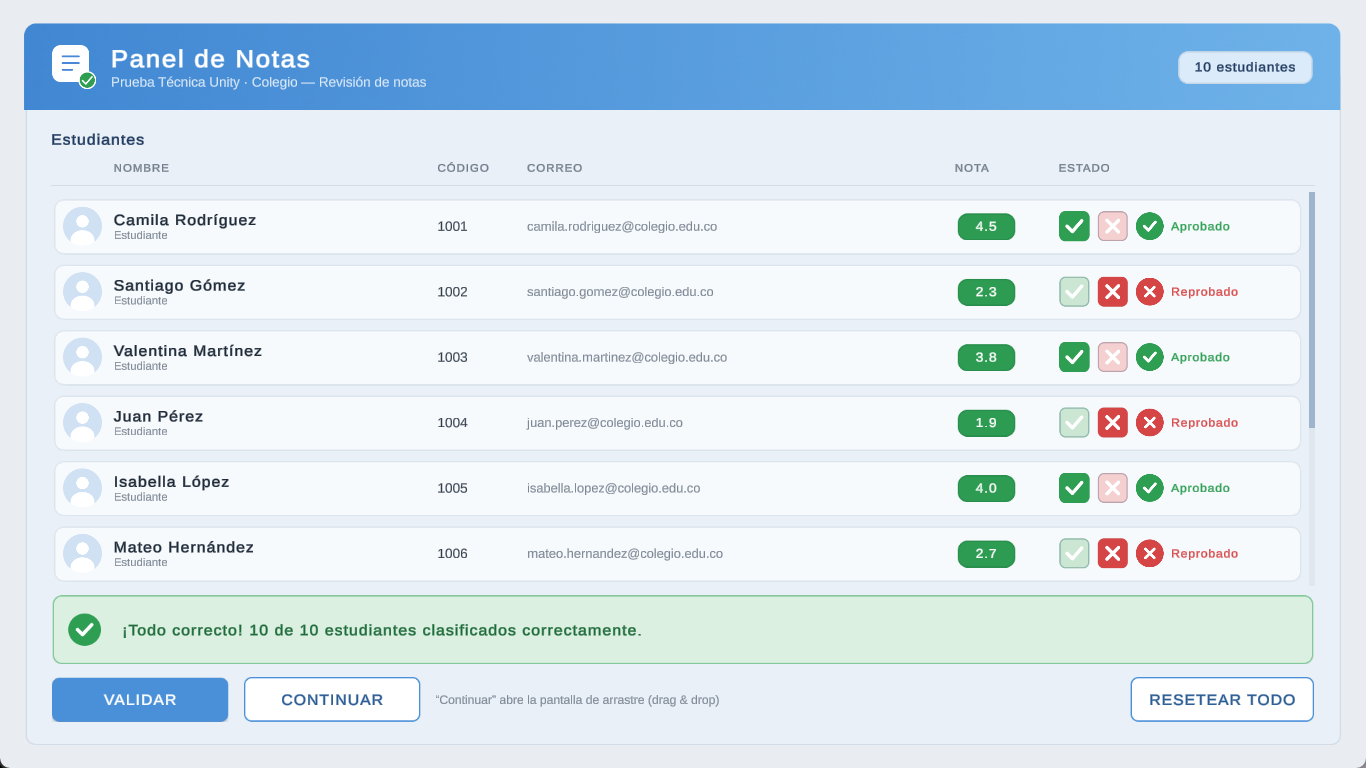
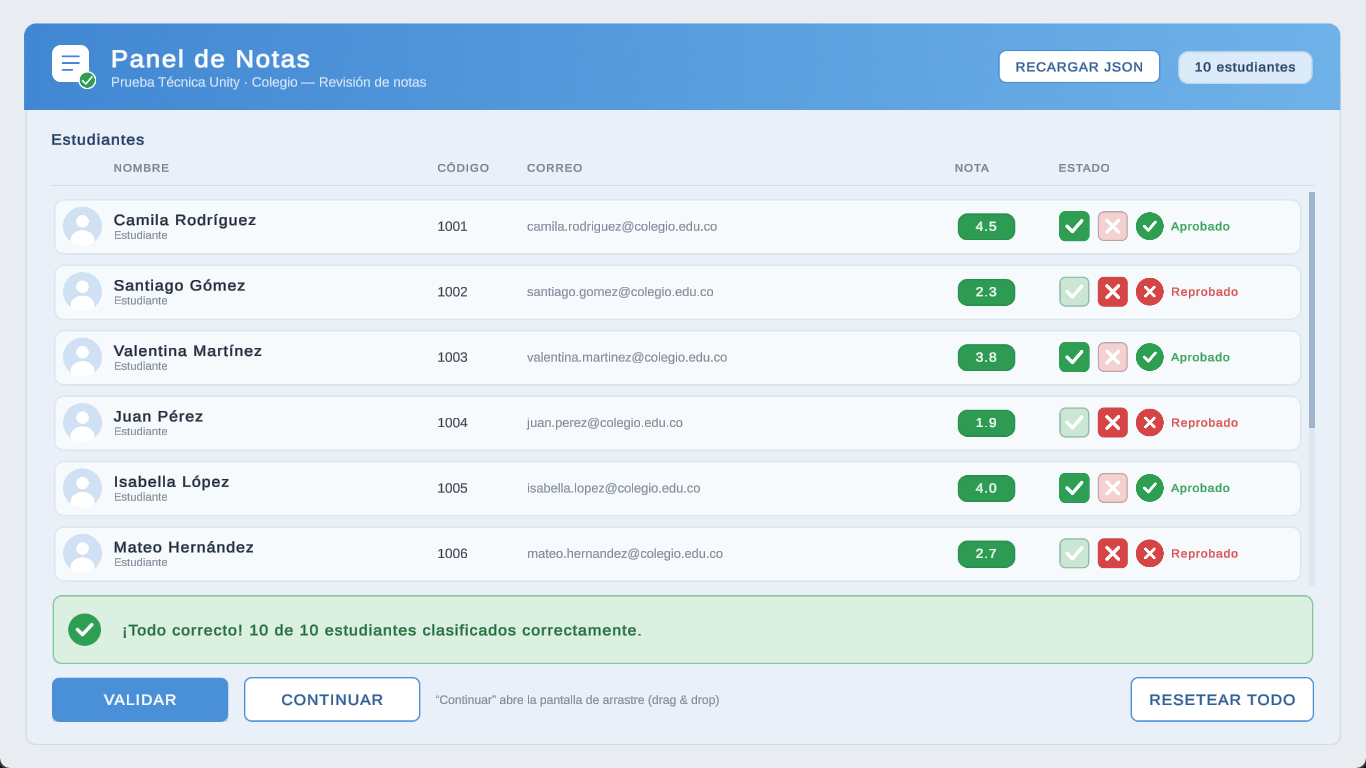
Add => JSON reload button

Changed region(s): [[0.7072, 0.0625, 0.8609, 0.125]]

diff --git a/Assets/Scripts/UI/GradesPanelController.cs b/Assets/Scripts/UI/GradesPanelController.cs
@@ -20,6 +20,7 @@ namespace GradeReview.UI
         [SerializeField] private TMP_Text studentCountText;
         [SerializeField] private Button validateButton;
         [SerializeField] private Button resetButton;
+        [SerializeField] private Button reloadButton;
         [SerializeField] private ResultBannerView resultBanner;
 
         private readonly List<StudentRowView> rows = new List<StudentRowView>();
@@ -27,18 +28,23 @@ namespace GradeReview.UI
         /// <summary>Raised when the teacher asks to clear the classifications of every screen.</summary>
         public event Action ResetAllRequested;
 
+        /// <summary>Raised when the teacher asks to read estudiantes.json again.</summary>
+        public event Action ReloadRequested;
+
         public IReadOnlyList<StudentRowView> Rows => rows;
 
         private void Awake()
         {
             validateButton.onClick.AddListener(Validate);
             resetButton.onClick.AddListener(RequestResetAll);
+            reloadButton.onClick.AddListener(RequestReload);
         }
 
         private void OnDestroy()
         {
             validateButton.onClick.RemoveListener(Validate);
             resetButton.onClick.RemoveListener(RequestResetAll);
+            reloadButton.onClick.RemoveListener(RequestReload);
         }
 
         public void Build(IReadOnlyList<StudentData> students)
@@ -80,6 +86,9 @@ namespace GradeReview.UI
 
         public void ShowLoadError(string message) => resultBanner.ShowError(message);
 
+        public void ShowReloadSuccess(int studentCount) =>
+            resultBanner.ShowSuccess(studentCount == 1 ? "Datos recargados: 1 estudiante." : $"Datos recargados: {studentCount} estudiantes.");
+
         /// <summary>Leaves every row unclassified, without validation feedback.</summary>
         public void ClearClassifications()
         {
@@ -97,6 +106,8 @@ namespace GradeReview.UI
         }
 
         private void RequestResetAll() => ResetAllRequested?.Invoke();
+
+        private void RequestReload() => ReloadRequested?.Invoke();
 
         // Only offered once every student has been classified.
         private void UpdateResetButton()

diff --git a/Assets/Scripts/UI/AppController.cs b/Assets/Scripts/UI/AppController.cs
@@ -8,7 +8,7 @@ using UnityEngine.UI;
 namespace GradeReview.UI
 {
     /// <summary>
-    /// Scene entry point: loads the students once, hands them to the panels and coordinates navigation and the global reset.
+    /// Scene entry point: loads the students, hands them to the panels and coordinates navigation, reload and the global reset.
     /// </summary>
     public class AppController : MonoBehaviour
     {
@@ -25,6 +25,7 @@ namespace GradeReview.UI
             continueButton.onClick.AddListener(ShowDragDrop);
             backButton.onClick.AddListener(ShowGrades);
             gradesPanel.ResetAllRequested += ResetAll;
+            gradesPanel.ReloadRequested += ReloadStudents;
             dragDropPanel.ResetAllRequested += ResetAll;
         }
 
@@ -33,16 +34,28 @@ namespace GradeReview.UI
             continueButton.onClick.RemoveListener(ShowDragDrop);
             backButton.onClick.RemoveListener(ShowGrades);
             gradesPanel.ResetAllRequested -= ResetAll;
+            gradesPanel.ReloadRequested -= ReloadStudents;
             dragDropPanel.ResetAllRequested -= ResetAll;
         }
 
         private void Start()
         {
+            LoadStudents(announceSuccess: false);
+            ShowGrades();
+        }
+
+        private void ReloadStudents() => LoadStudents(announceSuccess: true);
+
+        private void LoadStudents(bool announceSuccess)
+        {
             // On failure the repository logs the cause and returns an empty list; the app keeps running.
             bool loaded = new StudentRepository().TryLoad(out students, out string loadError);
             gradesPanel.Build(students);
+            // The drag & drop board is rebuilt from the new data the next time it opens.
+            isDragDropBuilt = false;
+
             if (!loaded) gradesPanel.ShowLoadError(loadError);
-            ShowGrades();
+            else if (announceSuccess) gradesPanel.ShowReloadSuccess(students.Count);
         }
 
         private void ShowDragDrop()

diff --git a/README.md b/README.md
@@ -10,6 +10,7 @@ Aplicación para que un profesor revise y clasifique las notas de sus estudiante
 - **VALIDAR** compara cada clasificación con la nota real e indica aciertos y errores.
 - **CONTINUAR** abre una segunda pantalla donde los mismos estudiantes se clasifican arrastrando tarjetas.
 - **VERIFICAR CLASIFICACIÓN** valida el resultado del drag & drop con las mismas reglas.
+- **RECARGAR JSON** vuelve a leer el archivo en tiempo de ejecución, sin reiniciar la aplicación.
 
 ## Versión de Unity
 
@@ -64,7 +65,7 @@ PruebaTecnica_CloudLabs.exe -screen-fullscreen 0 -screen-width 1366 -screen-heig
 
 - No hay estudiantes hardcodeados en scripts, escena, prefabs ni Inspector.
 - Toda la interfaz se construye a partir del JSON, así que se adapta a cualquier cantidad de estudiantes.
-- Para cambiar los datos basta con editar el JSON y **reiniciar la aplicación**. La recarga en caliente era un plus opcional y no se implementó.
+- Para cambiar los datos basta con editar el JSON y pulsar **RECARGAR JSON**, sin cerrar la aplicación. En el ejecutable se edita el archivo dentro de `PruebaTecnica_CloudLabs_Data/StreamingAssets/`.
 
 **Regla de aprobación:** `notaFinal >= 3.0` → aprobado. Está centralizada en un único lugar, `StudentData.IsApproved`.
 
@@ -89,7 +90,7 @@ Assets/Scripts
 - `ValidationResult` / `ClassificationOutcome`: resultado global y por estudiante.
 
 **UI**
-- `AppController`: punto de entrada. Carga los datos una vez, coordina la navegación y RESETEAR TODO.
+- `AppController`: punto de entrada. Carga y recarga los datos, y coordina la navegación y RESETEAR TODO.
 - `GradesPanelController` / `StudentRowView`: tabla de notas y cada fila.
 - `ResultBannerView`: banner de éxito o error, compartido por ambas pantallas.
 
@@ -116,10 +117,16 @@ Las vistas no leen datos por su cuenta ni validan: reciben `StudentData` mediant
 - Tras validar, la nota de cada fila se colorea. **Verde indica que la clasificación del profesor es correcta y rojo que es incorrecta**; no indica directamente si el estudiante aprobó. Las filas sin clasificar quedan neutras.
 - Cambiar una clasificación después de validar limpia el feedback obsoleto.
 - **RESETEAR TODO** aparece cuando todos los estudiantes están clasificados y limpia ambas pantallas.
+- **RECARGAR JSON** (en el encabezado) vuelve a leer `estudiantes.json`:
+  - reconstruye la tabla y actualiza el contador;
+  - informa el resultado en el banner, por ejemplo "Datos recargados: 10 estudiantes." o el error de carga;
+  - la pantalla de drag & drop se reconstruye con los nuevos datos la próxima vez que se abre.
+
+  Como los estudiantes pueden haber cambiado, la recarga descarta las clasificaciones anteriores de ambas pantallas.
 
 ## Drag & Drop
 
-- **CONTINUAR** abre la pantalla usando **las mismas instancias de `StudentData`**; el JSON no se vuelve a leer.
+- **CONTINUAR** abre la pantalla usando **las mismas instancias de `StudentData`** que la tabla; el JSON no se vuelve a leer.
 - Cada estudiante es una tarjeta arrastrable. Hay tres zonas: **Sin clasificar**, **Aprobado** y **Reprobado**. Una tarjeta puede moverse entre cualquiera de ellas, incluso de vuelta a Sin clasificar.
 - Si se suelta fuera de una zona válida, la tarjeta vuelve a su posición de origen.
 - Todas las zonas tienen scroll interno, así que ninguna tarjeta queda inaccesible aunque todos los estudiantes estén en la misma zona.
@@ -139,7 +146,7 @@ La carga del JSON contempla:
 - nota ausente;
 - notas fuera del rango 0.0–5.0.
 
-Los estudiantes sin nota válida se descartan con un aviso en el log. Si no se puede cargar ningún estudiante, la aplicación **no se cierra**: muestra el motivo en el banner, por ejemplo "No se encontró el archivo estudiantes.json.".
+Los estudiantes sin nota válida se descartan con un aviso en el log. Si no se puede cargar ningún estudiante, al iniciar o al recargar, la aplicación **no se cierra**: muestra el motivo en el banner, por ejemplo "No se encontró el archivo estudiantes.json.". Tras corregir el archivo basta con pulsar RECARGAR JSON.
 
 ## UI y assets
 
@@ -158,6 +165,7 @@ Los estudiantes sin nota válida se descartan con un aviso en el log. Si no se p
 **Pantalla de notas**
 - Clic en la casilla ✓ (Aprobado) o ✗ (Reprobado); un segundo clic la desmarca.
 - **VALIDAR**, **CONTINUAR**, **RESETEAR TODO**.
+- **RECARGAR JSON** para volver a leer los datos.
 - Rueda del ratón o scrollbar para recorrer la lista.
 
 **Drag & Drop**
@@ -167,7 +175,6 @@ Los estudiantes sin nota válida se descartan con un aviso en el log. Si no se p
 
 ## Limitaciones conocidas
 
-- Los cambios en `estudiantes.json` requieren reiniciar la aplicación.
 - Las tarjetas capturan el gesto de arrastre, así que el scroll se hace con la rueda, la scrollbar o un espacio libre de la lista.
 - `JsonUtility` no distingue `"notaFinal": null` de `0`. Una nota *ausente* sí se detecta y se descarta.
 
@@ -179,7 +186,7 @@ Los estudiantes sin nota válida se descartan con un aviso en el log. Si no se p
 
 **Drag & Drop — 1920×1080** (clasificación verificada)
 
-![Drag and Drop 1920x1080](Docs/Screenshots/dragdrop_1920x1080.png)
+![Drag and Drop 1920x1080](Docs/Screenshots/drag%26drop_1920x1080.png)
 
 **Pantalla de notas — 1366×768** (todo correcto)
 
@@ -187,4 +194,8 @@ Los estudiantes sin nota válida se descartan con un aviso en el log. Si no se p
 
 **Drag & Drop — 1366×768** (clasificación en curso)
 
-![Drag and Drop 1366x768](Docs/Screenshots/dragdrop_1366x768.png)
+![Drag and Drop 1366x768](Docs/Screenshots/drag%26drop_1366x768.png)
+
+**Recargar JSON — 1366×768** (archivo editado con la aplicación abierta: 6 estudiantes nuevos)
+
+![Recargar JSON 1366x768](Docs/Screenshots/reload_json_1366x768.png)
